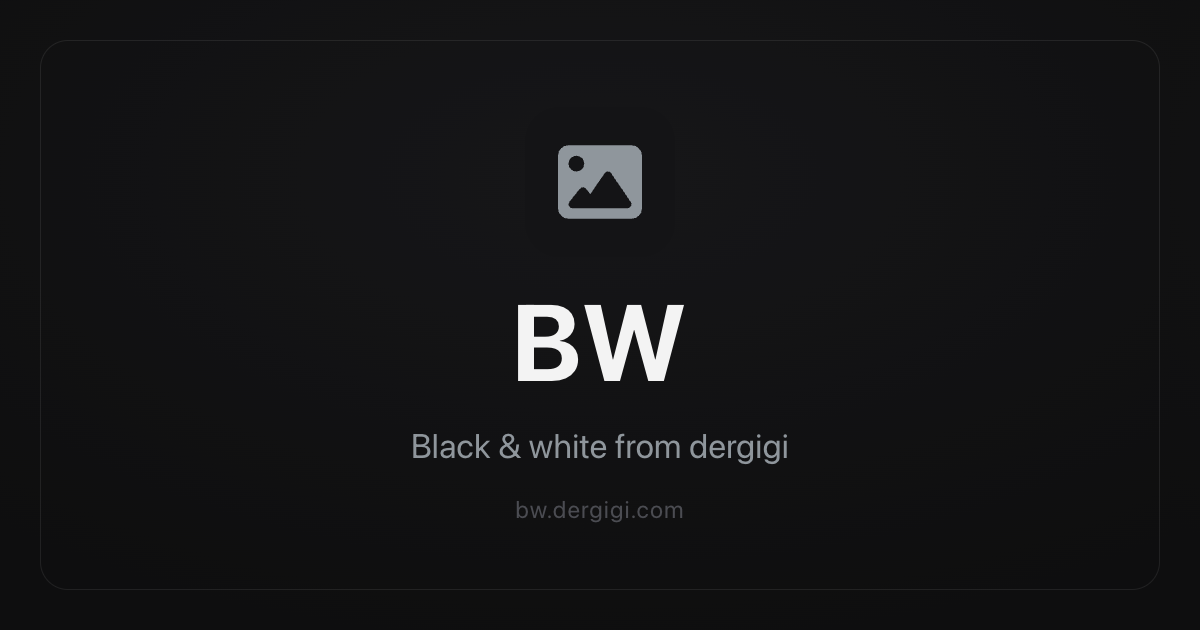
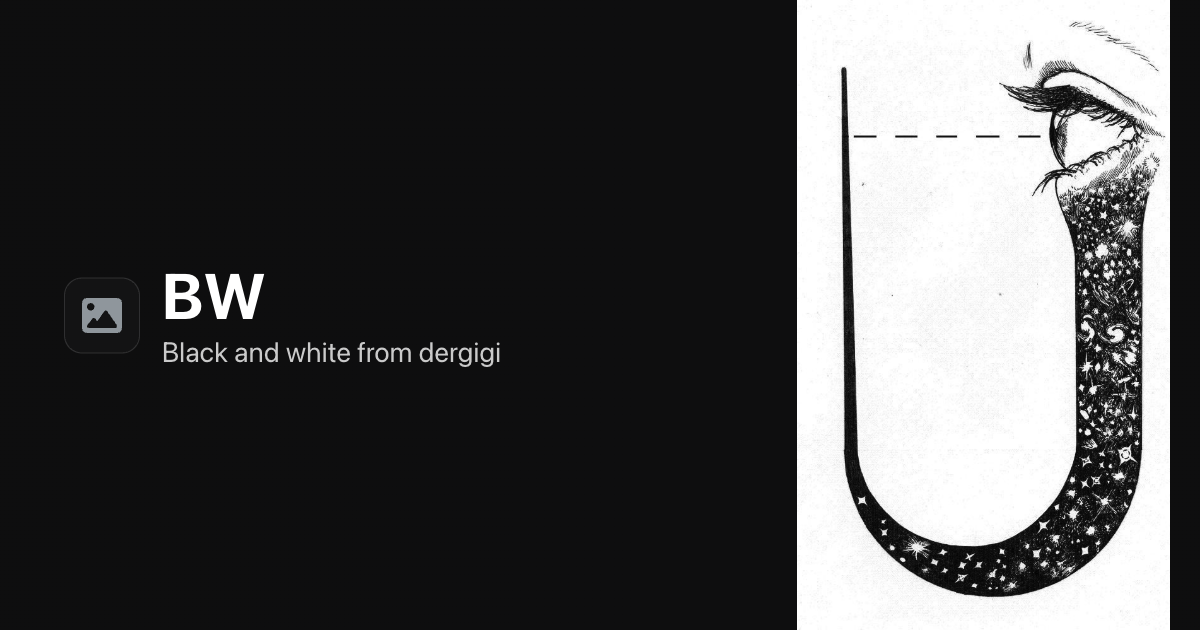
feat: use single illustration for bw share image
Adds a contain fit to the OG photo template so a portrait image sits on the
right with the label beside it, and regenerates bw.png from the source
illustration.

diff --git a/scripts/og-photo.html b/scripts/og-photo.html
@@ -47,6 +47,25 @@
         gap: 22px;
         color: #fff;
       }
+      /* contain mode: a single portrait image hugged to the right, label beside it */
+      body.contain .bg {
+        object-fit: contain;
+        object-position: right center;
+      }
+      body.contain .scrim {
+        background: linear-gradient(
+          to right,
+          rgba(11, 11, 12, 0.95) 0%,
+          rgba(11, 11, 12, 0.6) 34%,
+          rgba(11, 11, 12, 0) 58%
+        );
+      }
+      body.contain .meta {
+        left: 64px;
+        top: 50%;
+        bottom: auto;
+        transform: translateY(-50%);
+      }
       .glyph {
         width: 76px;
         height: 76px;
@@ -104,6 +123,7 @@
         },
       };
       const p = new URLSearchParams(location.search);
+      if ((p.get("fit") || "cover") === "contain") document.body.classList.add("contain");
       document.getElementById("bg").src = p.get("bg") || "";
       const g = GLYPHS[p.get("glyph") || "image"];
       document.getElementById("glyph").innerHTML =